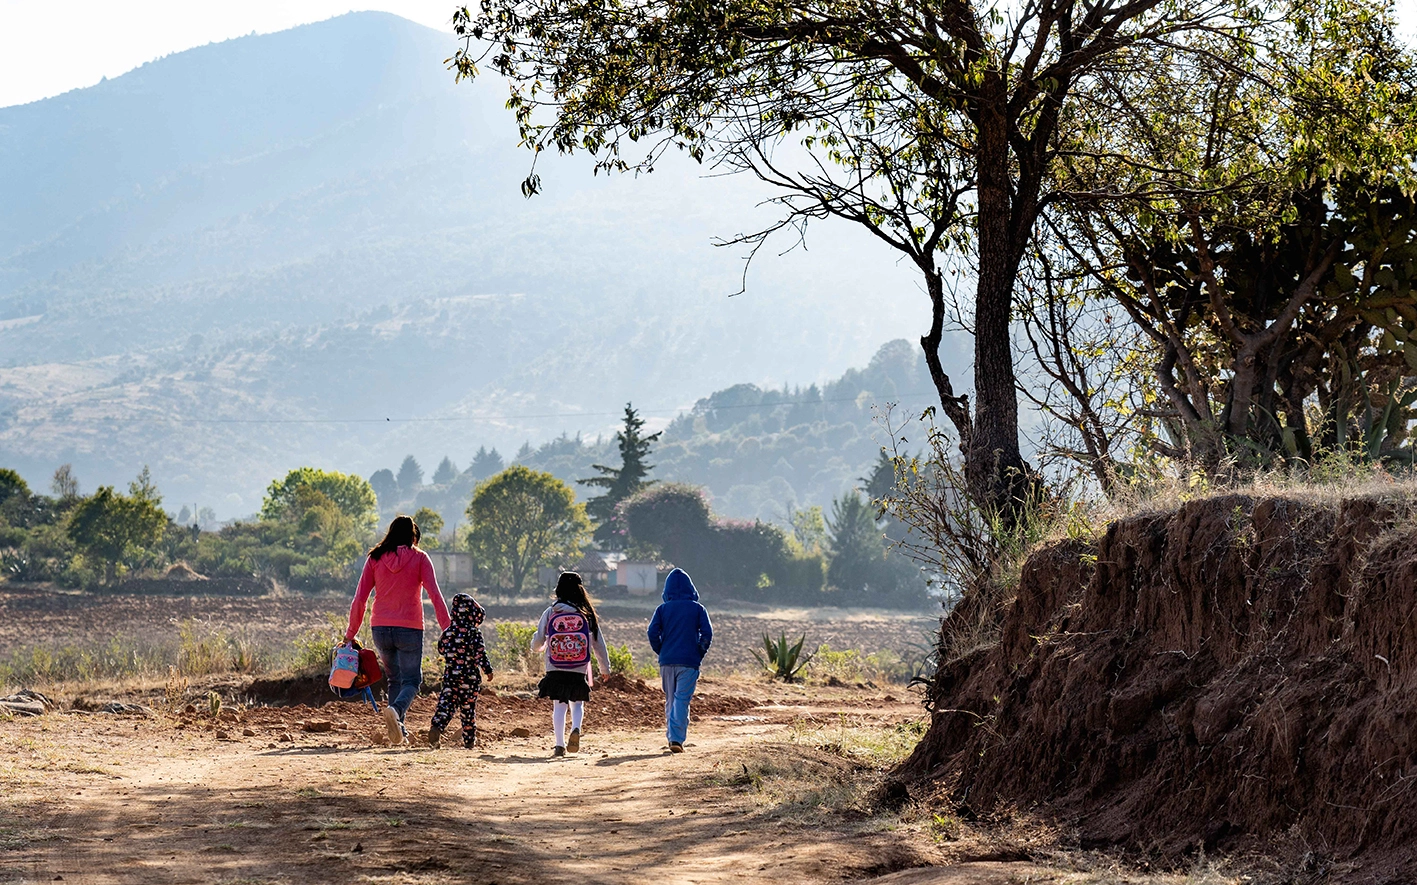
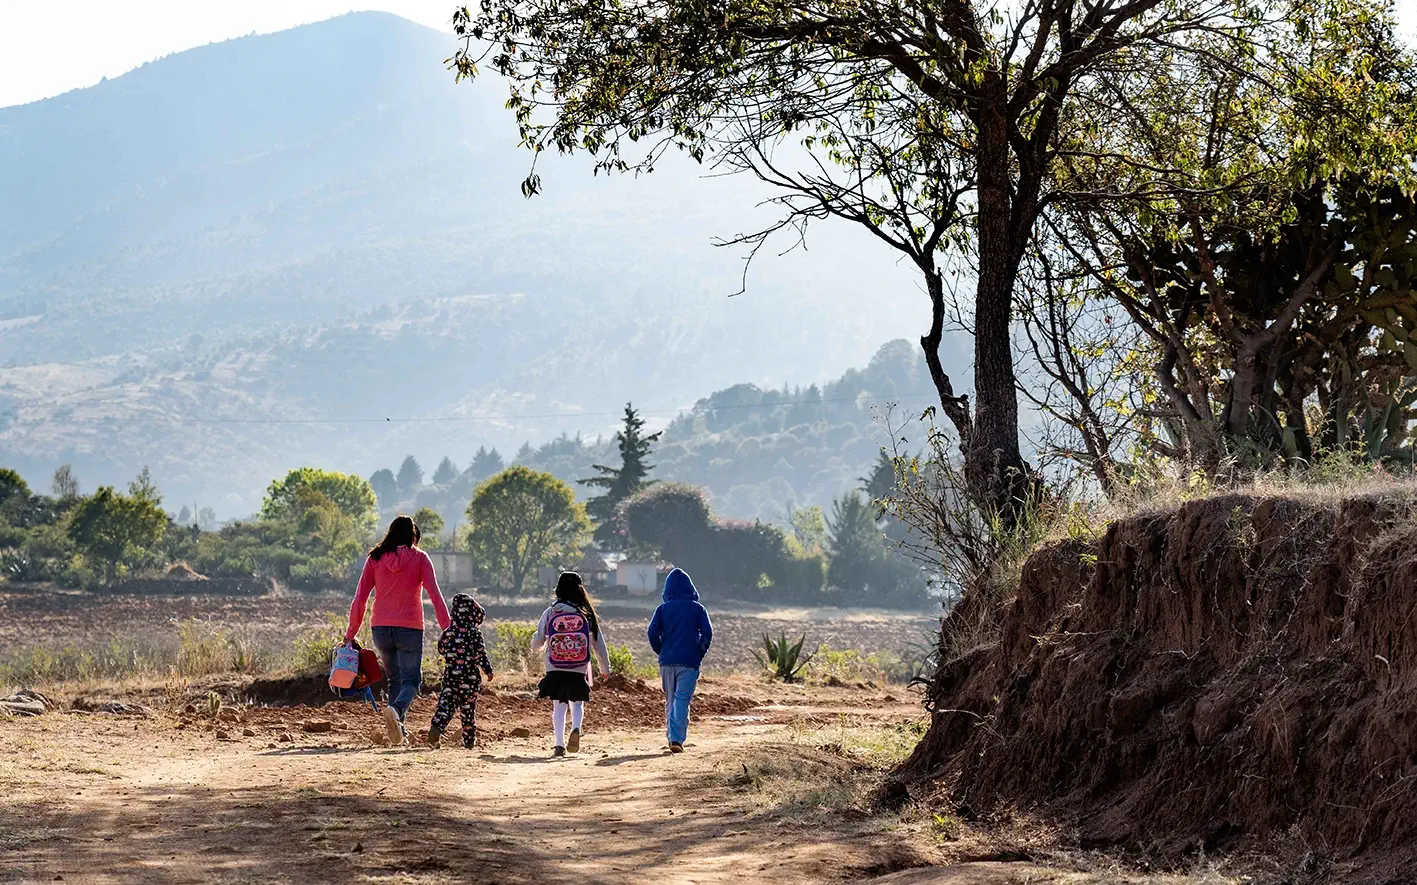
opt

Changed region(s): [[0.9315, 0.061, 0.9626, 0.0915]]

diff --git a/public/styles/main.css b/public/styles/main.css
@@ -806,8 +806,8 @@ html {
     padding: 2em;
     background-color: #212529;
     z-index: 9999;
-    background: -webkit-gradient(linear, left top, left bottom, from(rgba(0, 0, 0, 0.8)), to(rgba(0, 0, 0, 0.8))), url(/images/msday137.jpg);
-    background: linear-gradient(rgba(0, 0, 0, 0.8), rgba(0, 0, 0, 0.8)), url(/images/msday137.jpg);
+    background: -webkit-gradient(linear, left top, left bottom, from(rgba(0, 0, 0, 0.8)), to(rgba(0, 0, 0, 0.8))), url(/images/msday137.webp);
+    background: linear-gradient(rgba(0, 0, 0, 0.8), rgba(0, 0, 0, 0.8)), url(/images/msday137.webp);
     background-size: cover;
     background-position: center;
   }

diff --git a/public/styles/layout/_footer.scss b/public/styles/layout/_footer.scss
@@ -5,7 +5,7 @@
     padding: 2em;
     background-color: $charlestongreen;
     z-index: 9999;
-    background: linear-gradient(rgba(0,0,0,.8), rgba(0,0,0,.8)), url(/images/msday137.jpg);
+    background: linear-gradient(rgba(0,0,0,.8), rgba(0,0,0,.8)), url(/images/msday137.webp);
     background-size: cover;
     background-position: center;
 
